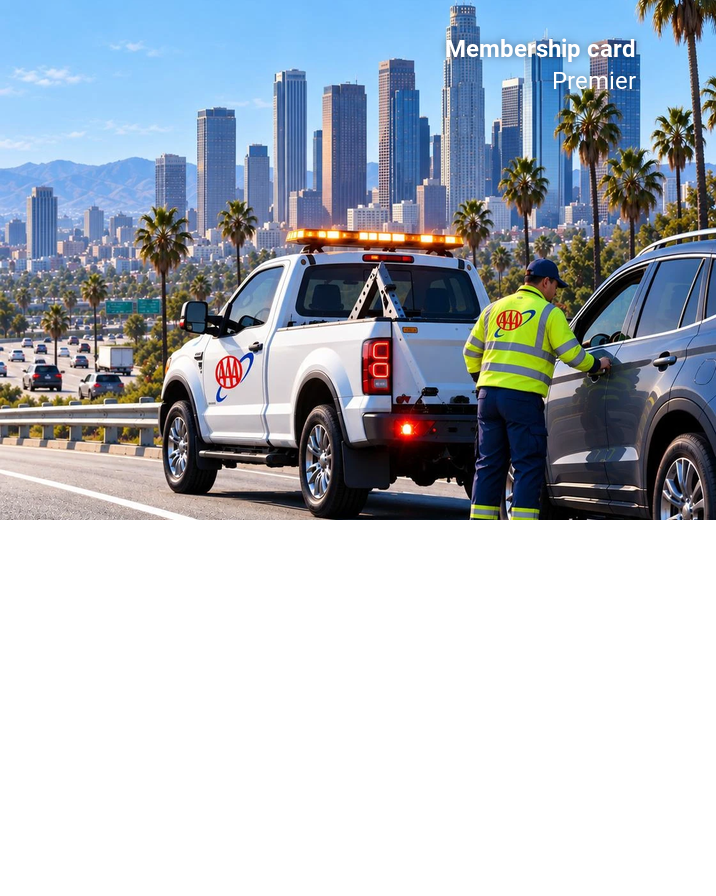
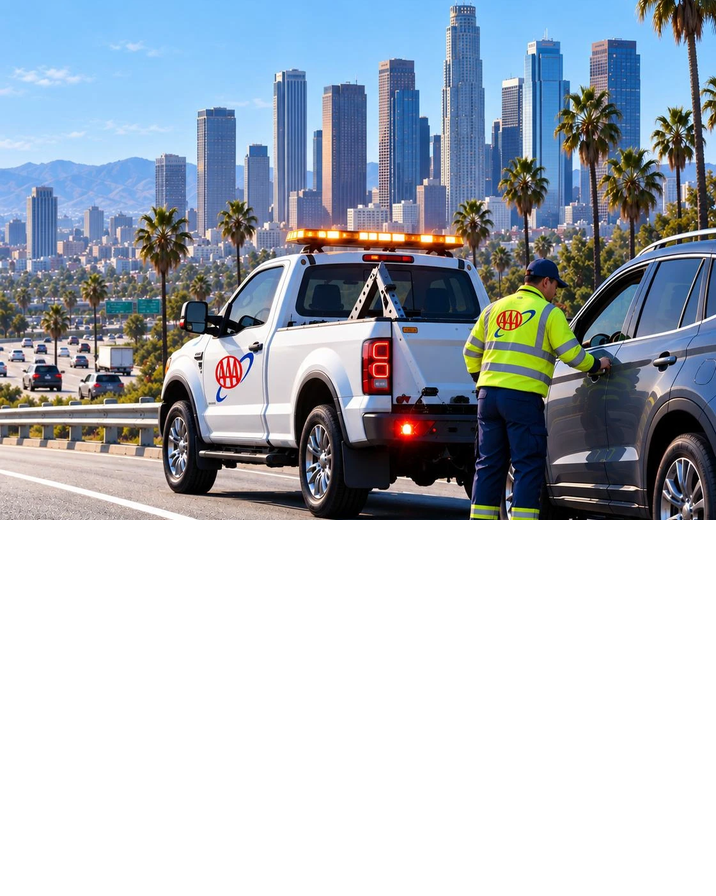
Make the membership plan title dynamic
Remove the baked Membership card / Premier text from the artwork and
show it as a header field with automatic colors, so the plan comes from
pass data. Viewer mirrors automatic colors on the poster.

Changed region(s): [[0.6145, 0.0312, 0.8911, 0.125]]

diff --git a/index.html b/index.html
@@ -58,8 +58,8 @@ button,select{font:inherit;color:inherit}
 .poster{background:var(--bg);color:var(--fg)}
 .poster .art{position:absolute;inset:0;background-repeat:no-repeat;background-position:center top;background-size:cover}
 .poster .plogo{position:absolute;left:14px;top:12px;height:25px;max-width:105px;object-fit:contain;object-position:left}
-.poster .phead{position:absolute;right:14px;top:12px;text-align:right;color:#fff;text-shadow:0 1px 3px #0008;font-size:12px}
-.poster .phead small{display:block;font-size:9px;opacity:.85;text-transform:uppercase}
+.poster .phead{position:absolute;right:14px;top:12px;text-align:right;color:#fff;text-shadow:0 1px 3px #0008;font:12px ui-monospace,SFMono-Regular,Menlo,monospace}
+.poster .phead small{display:block;font-size:10px;font-weight:700;text-transform:uppercase}
 .poster .body{position:absolute;left:0;right:0;bottom:0;background:var(--footer,#fff);padding:10px 12px 9px;min-height:24%}
 .poster .row{display:grid;gap:8px;margin-top:8px}
 .fld{min-width:0}
@@ -381,7 +381,8 @@ function renderPoster(p, dict){
   const bc = (p.barcodes||[])[0];
   const prim = dict.primaryFields||[], foot = dict.footerFields||[], head = dict.headerFields||[];
   const art = asset('artwork'), logo = asset('primaryLogo') || asset('logo');
-  return `<div class="face-in poster" style="${cssVars(p)};position:absolute;inset:0">
+  const auto = p.useAutomaticColors ? ';--fg:#1c1c1e;--label:#6e6e73' : '';
+  return `<div class="face-in poster" style="${cssVars(p)}${auto};position:absolute;inset:0">
     ${art ? `<div class="art" style="background-image:url('${esc(art)}')"></div>` : '<div class="art" style="background:#5b6b82"></div>'}
     ${logo ? `<img class="plogo" src="${esc(logo)}" alt="Primary logo">` : ''}
     ${head[0] ? `<div class="phead" data-f="headerFields:0"><small>${esc(head[0].label)}</small>${esc(head[0].value)}</div>` : ''}
